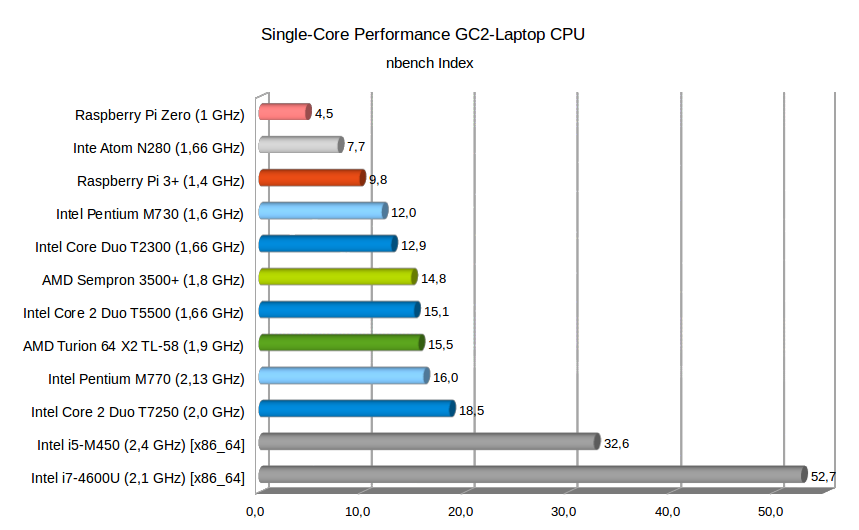
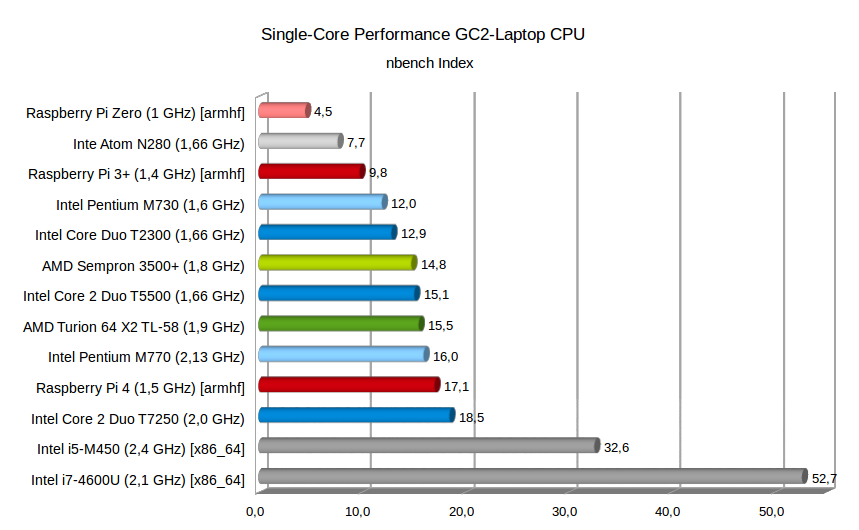
Add Pi 4 benchmark result

diff --git a/content/post/GC2-Laptops.md b/content/post/GC2-Laptops.md
@@ -89,7 +89,7 @@ um 90° gedreht werden muss. Dann kann die CPU ausgetauscht werden und allers wi
 
 Der Wechsel von AMD Einkern- auf Zweikern-Prozessor bringt natürlich einen deutlichen Leistungsschub, die Singlecore-Leistung profitiert aber kaum vom Wechsel.
 Wird innerhalb der gleichen Serie aufgerüstet, steigt die Leistung linear mit der Taktrate. Beim Wechsel von Intel Core auf Intel Core 2 bringt der Wechsel ca. 17 % wie man beim Vergleich T2300 zu T5500 sehen kann.  
-Als Vergleich wurde mit dem alten [nbench](https://www.math.utah.edu/~mayer/linux/bmark.html) Benchmark Programm alle CPUs vermessen und in einem Diagramm dargestellt. Als Referenz wurde in Grau ein Intel Atom N280 Prozessor und ein i5-M450 sowie ein aktuellerer i7-4600U Prozessor (amd64 Architektur) hinzugefügt. Auch die Performancewerte der Raspberry Pi Zero und 3+ sind als Vergleich im Diagramm (armhf Architektur) enthalten. Im Diagramm wurden Einkern-Prozessoren in helleren Farben dargestellt.
+Als Vergleich wurde mit dem alten [nbench](https://www.math.utah.edu/~mayer/linux/bmark.html) Benchmark Programm alle CPUs vermessen und in einem Diagramm dargestellt. Als Referenz wurde in Grau ein Intel Atom N280 Prozessor und ein i5-M450 sowie ein aktuellerer i7-4600U Prozessor (amd64 Architektur) hinzugefügt. Auch die Performancewerte der Raspberry Pi Zero, 3+ und 4 sind als Vergleich im Diagramm (armhf Architektur) enthalten. Im Diagramm wurden Einkern-Prozessoren in helleren Farben dargestellt.
 
 ![nBench Single Core CPU Leistung](../../img/Single-Core_Performance_GC2-Laptop_CPU.png)
 
